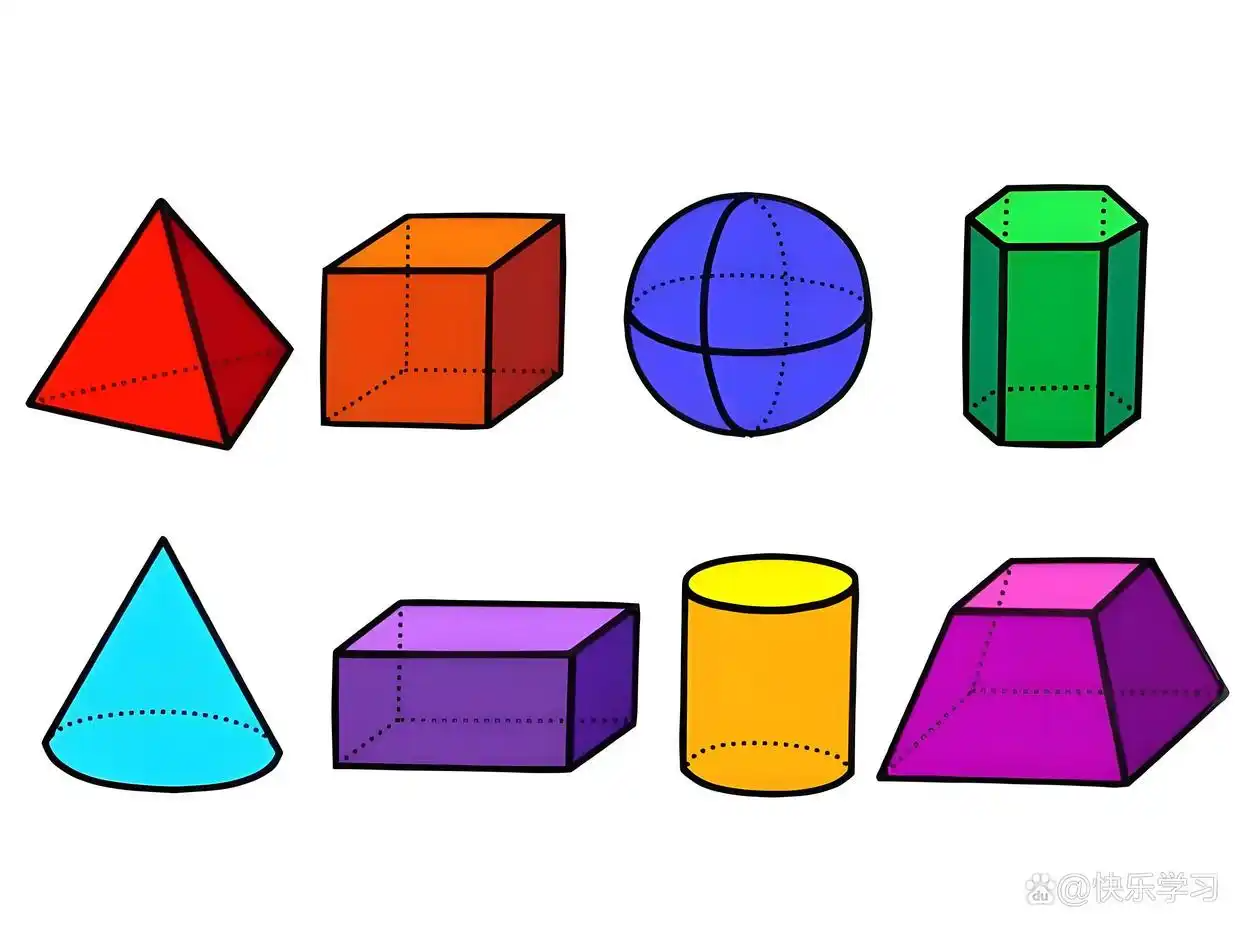
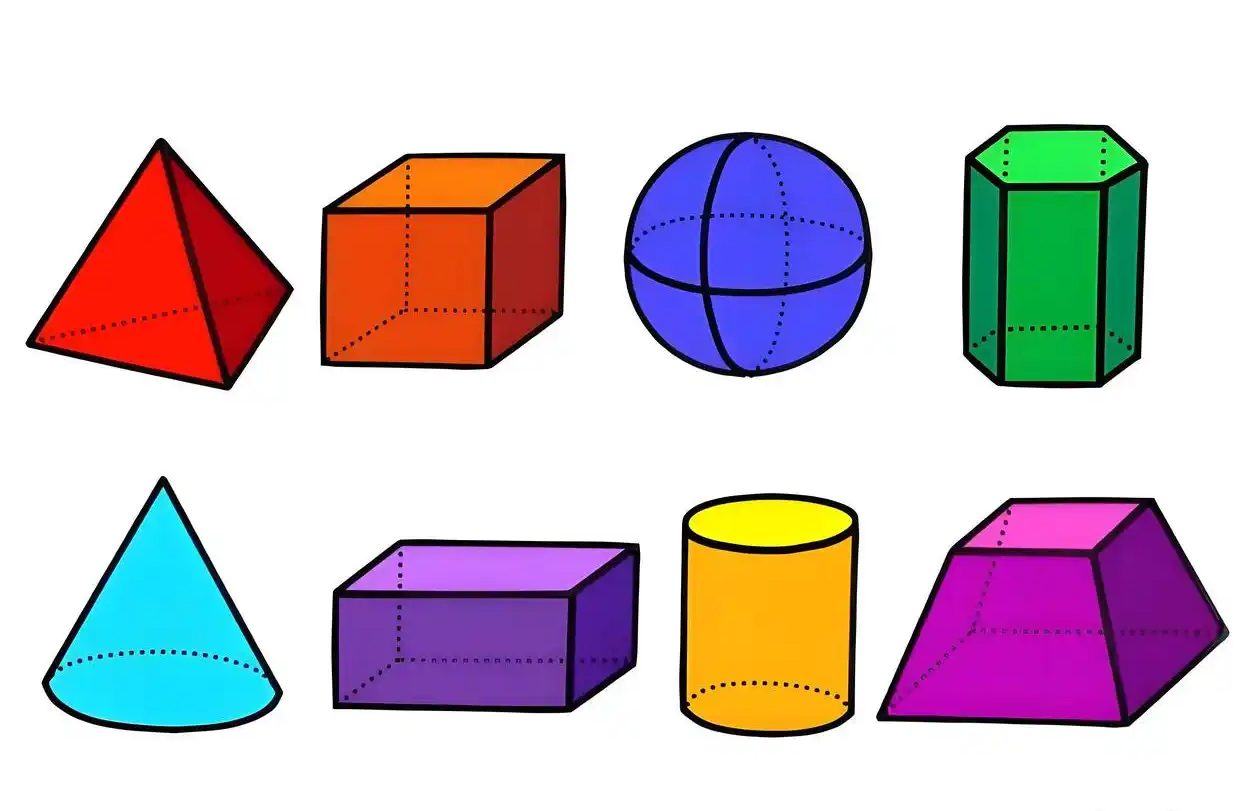
增加物体轮廓检测方法

diff --git a/opencv/object_recognition.py b/opencv/object_recognition.py
@@ -1,0 +1,99 @@
+import os
+import cv2
+import numpy as np
+
+
+def object_recognition(object_img, result_img_path):
+    """
+    基于轮廓的物体识别、计数与标记
+    :param object_img: 物体图片
+    :param result_img_path: 物体识别结果保存路径
+    :return:
+    """
+    img_copy = np.asarray(object_img).copy()
+
+    # 高斯滤波降噪，消除画面细小噪点
+    img_copy = cv2.GaussianBlur(img_copy, (3, 3), 0)
+
+    # 转换为灰度图
+    gray = cv2.cvtColor(img_copy, cv2.COLOR_BGR2GRAY)
+
+    # 反向二值化，物体像素变黑，背景像素变白
+    _, gray = cv2.threshold(gray, 127, 255, cv2.THRESH_BINARY_INV)
+
+    # 借助形态学开运算，消除画面细碎噪点，孤立小点
+    kernel = cv2.getStructuringElement(cv2.MORPH_RECT, (3, 3))
+    gray = cv2.morphologyEx(gray, cv2.MORPH_OPEN, kernel)
+
+    # 提取最外层外部轮廓，物理物体内部小孔嵌套轮廓
+    contours, hierarchy = cv2.findContours(gray, cv2.RETR_EXTERNAL, cv2.CHAIN_APPROX_SIMPLE)
+
+    # 有效物体数量
+    object_count = 0
+    # 最大物体轮廓面积
+    max_area = 0
+    # 最大物体轮廓
+    max_contour = None
+
+    # 遍历全部轮廓，逐一对物体进行处理
+    for cnt in contours:
+        # 计算当前轮廓包围面积
+        area = cv2.contourArea(cnt)
+        # 过滤极小噪点面积
+        if area < 100:
+            continue
+        object_count += 1
+        # 获取轮廓外接矩形左上角坐标、宽度、高度
+        x, y, w, h = cv2.boundingRect(cnt)
+        # 绘制蓝色的物体矩形框
+        cv2.rectangle(img_copy, (x, y), (x + w, y + h), (0, 255, 0), 2)
+        # 计算物体中心坐标
+        center_x = (x + w // 2)
+        center_y = (y + h // 2)
+        # 黄色实心圆点标记物体中心
+        cv2.circle(img_copy, (center_x, center_y), 5, (0, 255, 255), -1)
+        # 打印物体信息
+        print(f"第{object_count}个物体，面积：{area}，中心点：({center_x}, {center_y})")
+        # 更新最大物体轮廓面积
+        if area > max_area:
+            max_area = area
+            max_contour = cnt
+
+    # 高亮标记最大物体轮廓，使用文字+红色粗框
+    if max_contour is not None:
+        x, y, w, h = cv2.boundingRect(max_contour)
+        cv2.rectangle(img_copy, (x, y), (x + w, y + h), (0, 0, 255), 3)
+        cv2.putText(img_copy, "Max object", (x, y-10), cv2.FONT_HERSHEY_SIMPLEX, 1, (0, 0, 255), 2)
+
+    print(f"共检测到{object_count}个有效物体，最大物体轮廓面积：{max_area}")
+    # 保存结果
+    write_result = cv2.imwrite(result_img_path, img_copy)
+    if not write_result:
+        raise IOError(f"保存物体识别结果图片失败：{result_img_path}")
+    print("物体识别完成，文件已保存！")
+    return True, img_copy
+
+
+# 定义图片所在路径
+image_path = './images/'
+# 物体图片名称
+object_img_filename = 'objects.png'
+# 物体识别结果图片名称
+object_recognition_result_img_filename = 'object_recognition_result.png'
+# 拼接图片路径
+object_img_path = os.path.join(image_path, object_img_filename)
+object_recognition_result_img_path = os.path.join(image_path, object_recognition_result_img_filename)
+
+# 读取物体图片
+objects = cv2.imread(object_img_path)
+if objects is None:
+    raise FileNotFoundError(f"读取物体图片失败：{object_img_path}， 请检查图片路径是否正确")
+
+# 调用物体轮廓识别
+result_flag, img = object_recognition(objects, object_recognition_result_img_path)
+if result_flag:
+    if img is not None:
+        # 展示图片
+        cv2.imshow('object recognition', img)
+        cv2.waitKey(0)
+        cv2.destroyAllWindows()
